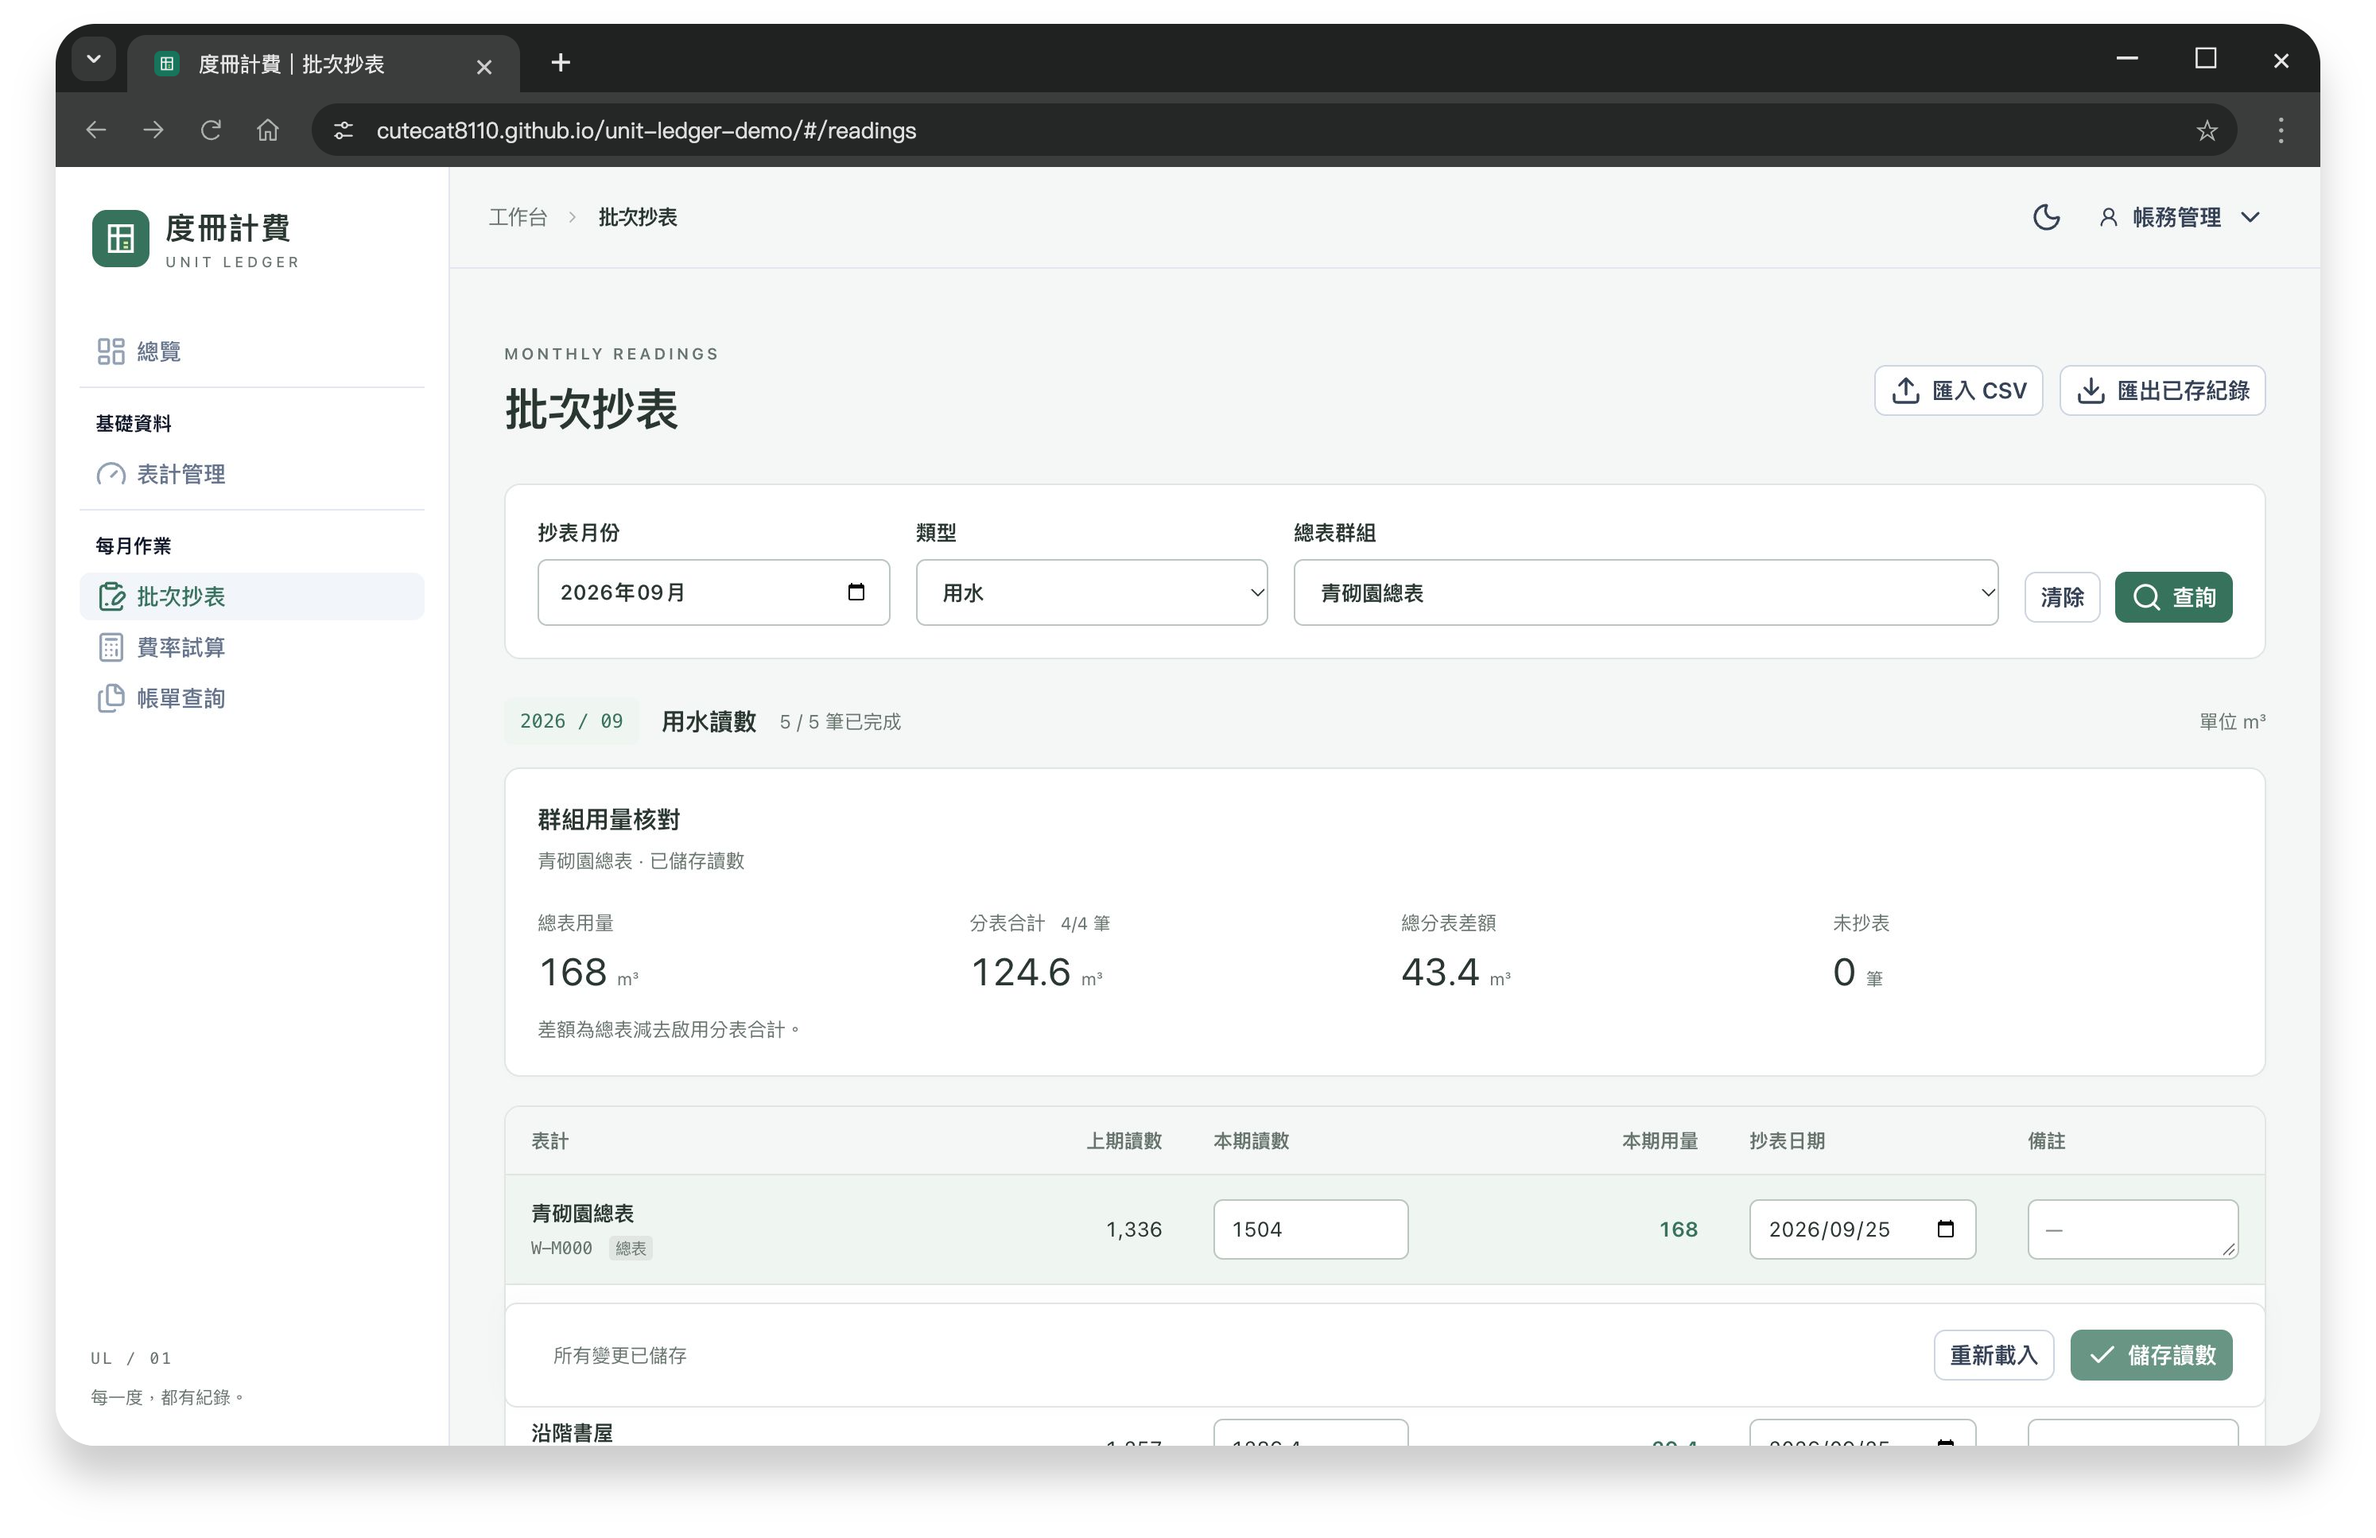
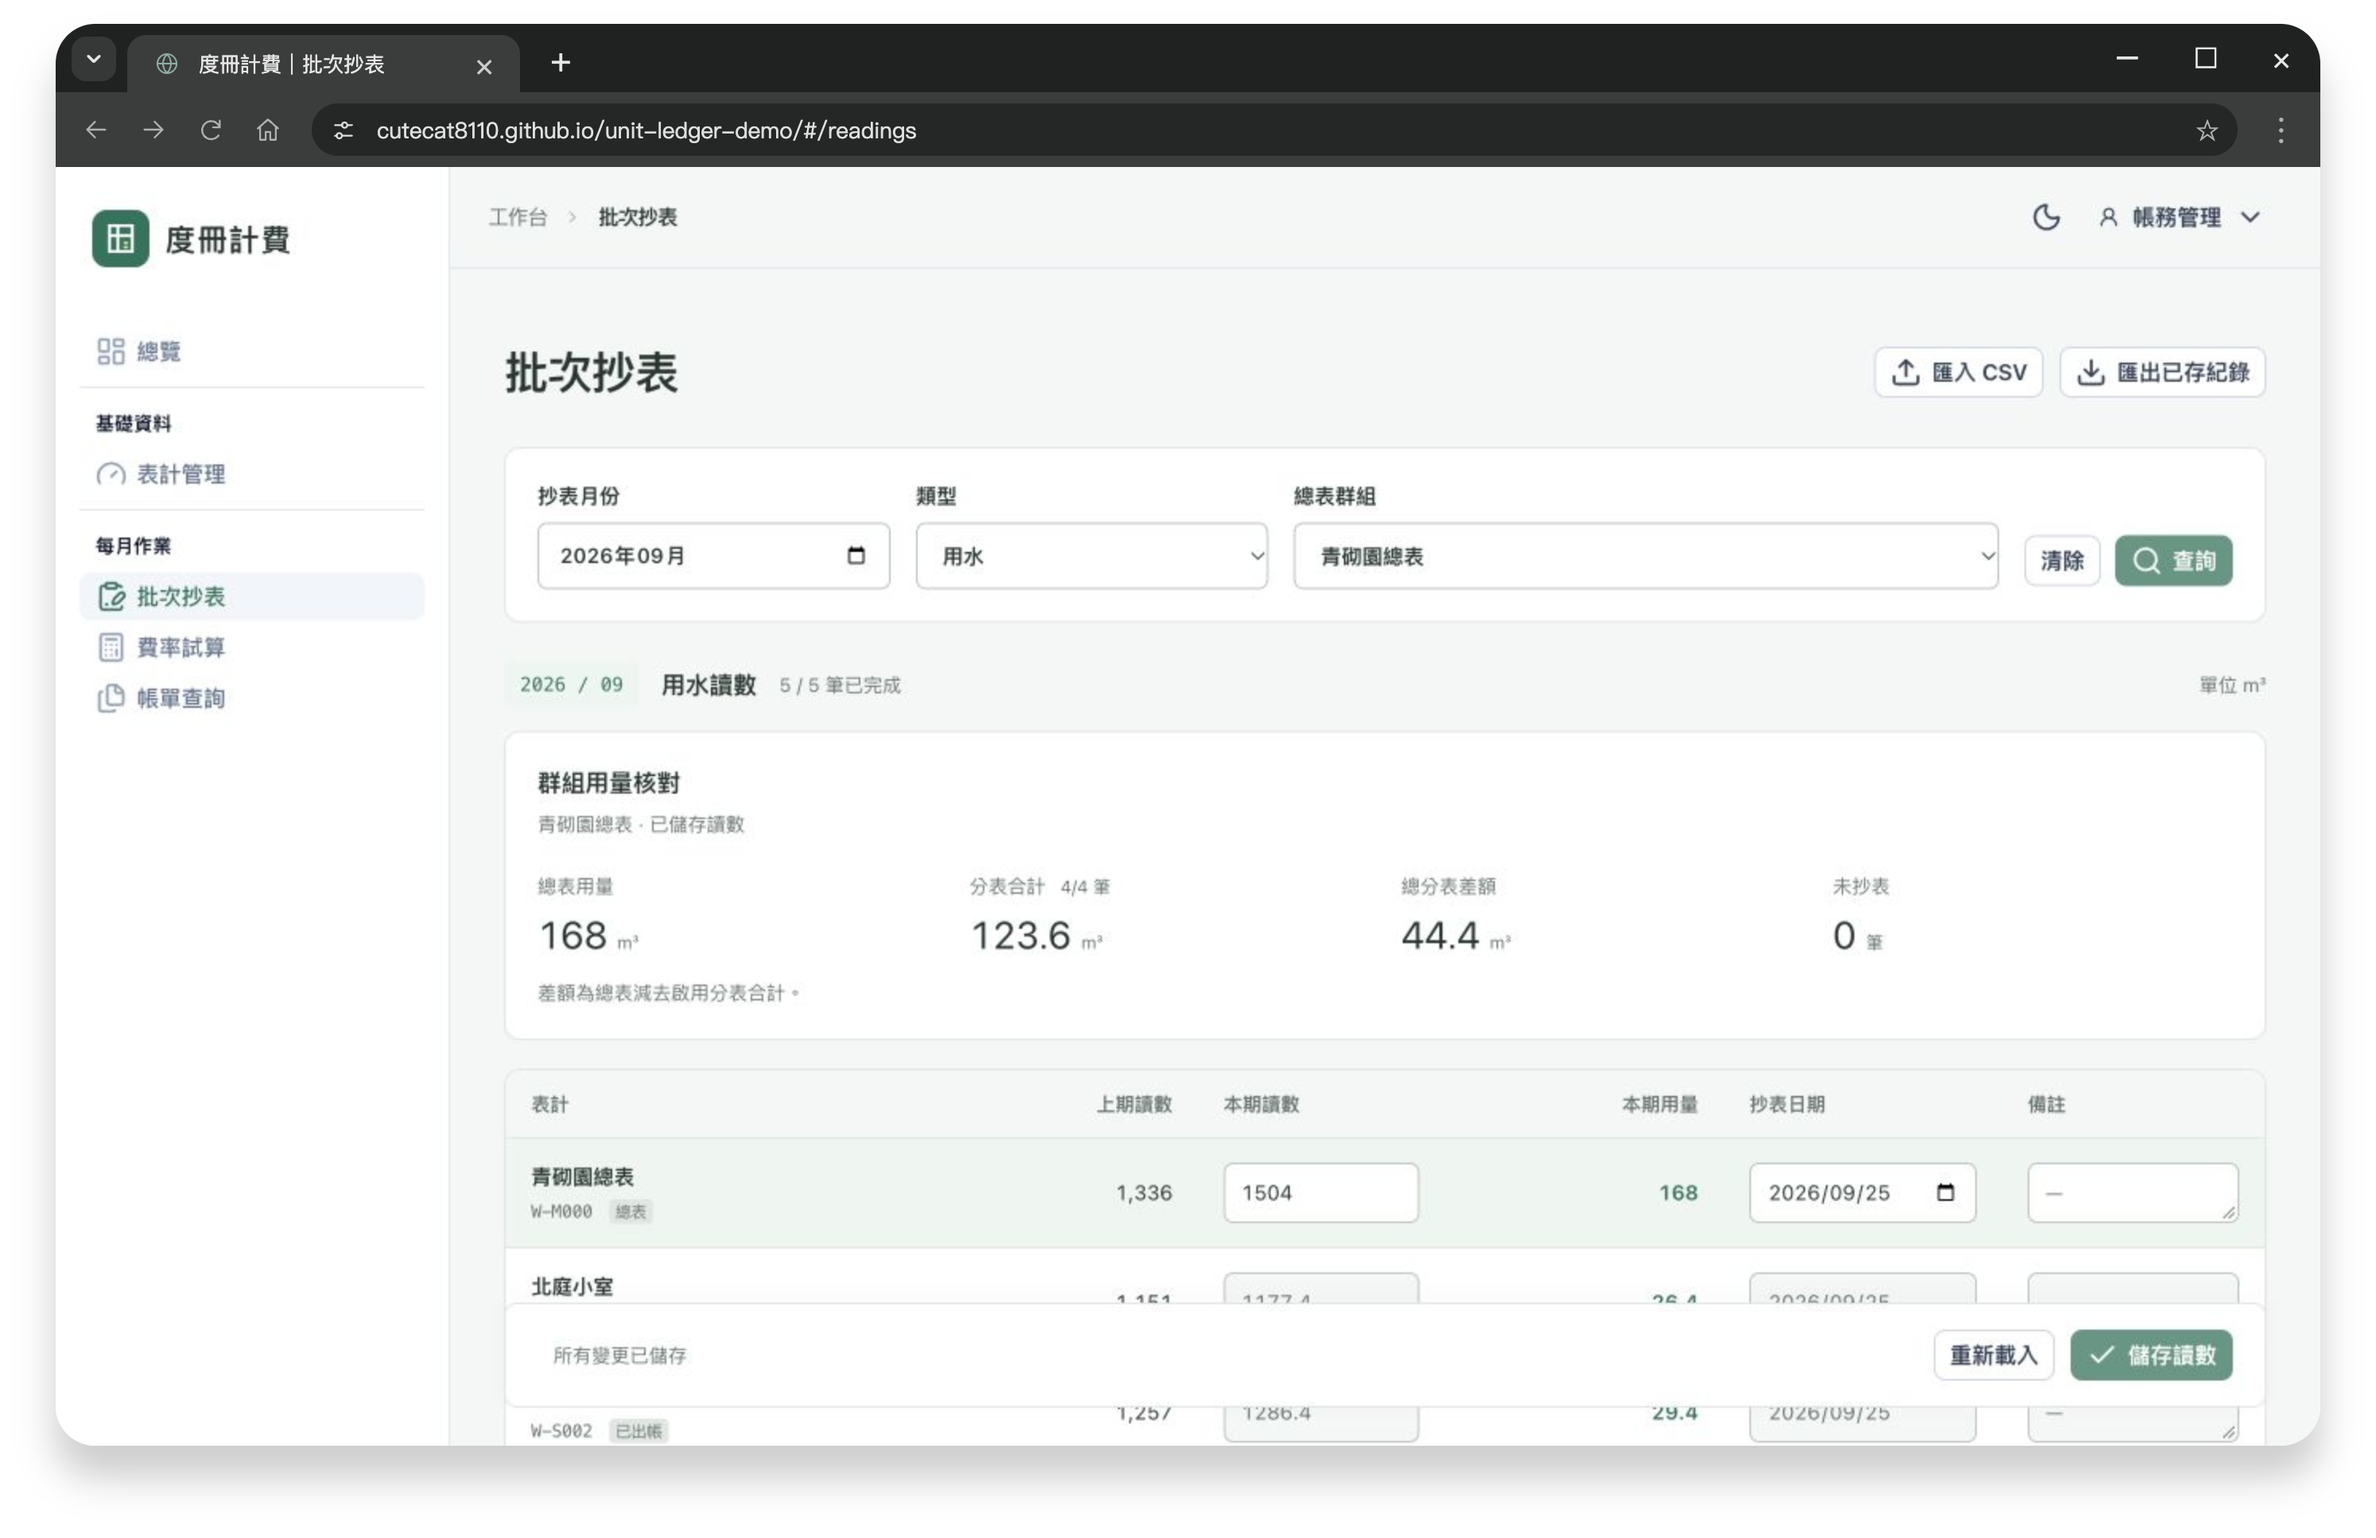
Refresh project overview and screenshots

diff --git a/README.md b/README.md
@@ -1,40 +1,37 @@
 # 度冊計費｜表計與帳務管理展示
 
-![Nuxt](https://img.shields.io/badge/Nuxt_4-00DC82?style=flat-square&logo=nuxt&logoColor=white) ![Vue](https://img.shields.io/badge/Vue_3-4FC08D?style=flat-square&logo=vuedotjs&logoColor=white) ![TypeScript](https://img.shields.io/badge/TypeScript-3178C6?style=flat-square&logo=typescript&logoColor=white) ![Nuxt UI](https://img.shields.io/badge/Nuxt_UI-18745B?style=flat-square) ![IndexedDB](https://img.shields.io/badge/IndexedDB-64756D?style=flat-square)
+`Nuxt 4` · `Vue 3` · `TypeScript` · `Nuxt UI` · `IndexedDB`
 
-從每月抄表到帳單核對，清楚追蹤讀數、用量與費用。
+從批次抄表、總分表核對到費率試算與出帳，追蹤每期用量及費用。
 
-**[開啟 Demo](https://cutecat8110.github.io/unit-ledger-demo/)** · 登入頁點鑰匙即可帶入帳密。
+**[開啟 Demo](https://cutecat8110.github.io/unit-ledger-demo/)**
 
-![批次抄表](docs/images/readings.png)
+![批次抄表與總分表用量核對](docs/images/readings.png)
 
-| 功能 | 體驗重點 |
+| 入口 | 代表操作 |
 | --- | --- |
 | [表計管理](https://cutecat8110.github.io/unit-ledger-demo/#/meters) | 總分表關聯、查詢、編修與匯出 |
-| [批次抄表](https://cutecat8110.github.io/unit-ledger-demo/#/readings) | CSV 匯入預覽、整批驗證、總分表用量核對 |
-| [費率試算](https://cutecat8110.github.io/unit-ledger-demo/#/calculator) | 階梯費率、基本費、稅額與出帳快照 |
-| [帳單查詢](https://cutecat8110.github.io/unit-ledger-demo/#/bills) | 明細核對、確認／撤回與 CSV 匯出 |
+| [批次抄表](https://cutecat8110.github.io/unit-ledger-demo/#/readings) | CSV 預覽、整批驗證與用量核對 |
+| [費率試算](https://cutecat8110.github.io/unit-ledger-demo/#/calculator) | 階梯費率、基本費、稅額及出帳快照 |
+| [帳單查詢](https://cutecat8110.github.io/unit-ledger-demo/#/bills) | 明細、確認／撤回及 CSV 匯出 |
 
-**試用順序：** 匯入或補登 2026 年 9 月讀數 → 選群組核對用量 → 試算出帳 → 核對明細。
-
-未儲存離頁提醒、修改衝突提示與出帳快照，讓批次操作有跡可循。
-
-帳務管理可編修表計及出帳；抄表作業可登錄讀數、試算與查看帳單。
+**試用：** 點鑰匙帶入帳密 → 補登 2026 年 9 月讀數 → 選群組核對 → 試算出帳 → 查看明細。
 
 <details>
-<summary>更多畫面</summary>
+<summary>費率試算與帳單明細</summary>
 
-![費率試算](docs/images/calculator.png)
-
-![帳單明細](docs/images/bills.png)
+![階梯費率與試算結果](docs/images/calculator.png)
+![帳單費用明細](docs/images/bills.png)
 
 </details>
 
 <details>
-<summary>使用說明</summary>
+<summary>角色與使用說明</summary>
 
-初始資料為合成資料，費率僅供展示。角色權限在前端模擬，資料保存在目前瀏覽器；不提供跨裝置同步、付款或正式帳務串接。右上角「重設資料」可回復初始內容。已確認帳單不可撤回。
+帳務管理可編修表計與出帳；抄表作業可登錄、試算與查看帳單。
 
-CSV 使用頁面提供的 UTF-8 範本；驗證通過後帶入表格，再按「儲存讀數」。用量核對採已存讀數，缺表或抄表區間不同時不計差額，不自動分攤。
+資料與費率供展示，權限由前端模擬，修改保存在目前瀏覽器。沒有跨裝置同步、付款或正式帳務串接；「重設資料」恢復初始內容。
+
+CSV 使用頁面提供的 UTF-8 範本，驗證後帶入表格，另按「儲存讀數」。用量核對採已存讀數；缺表或區間不同不計差額，也不自動分攤。出帳會鎖定相關讀數，待確認帳單可撤回，已確認帳單不可撤回。
 
 </details>
